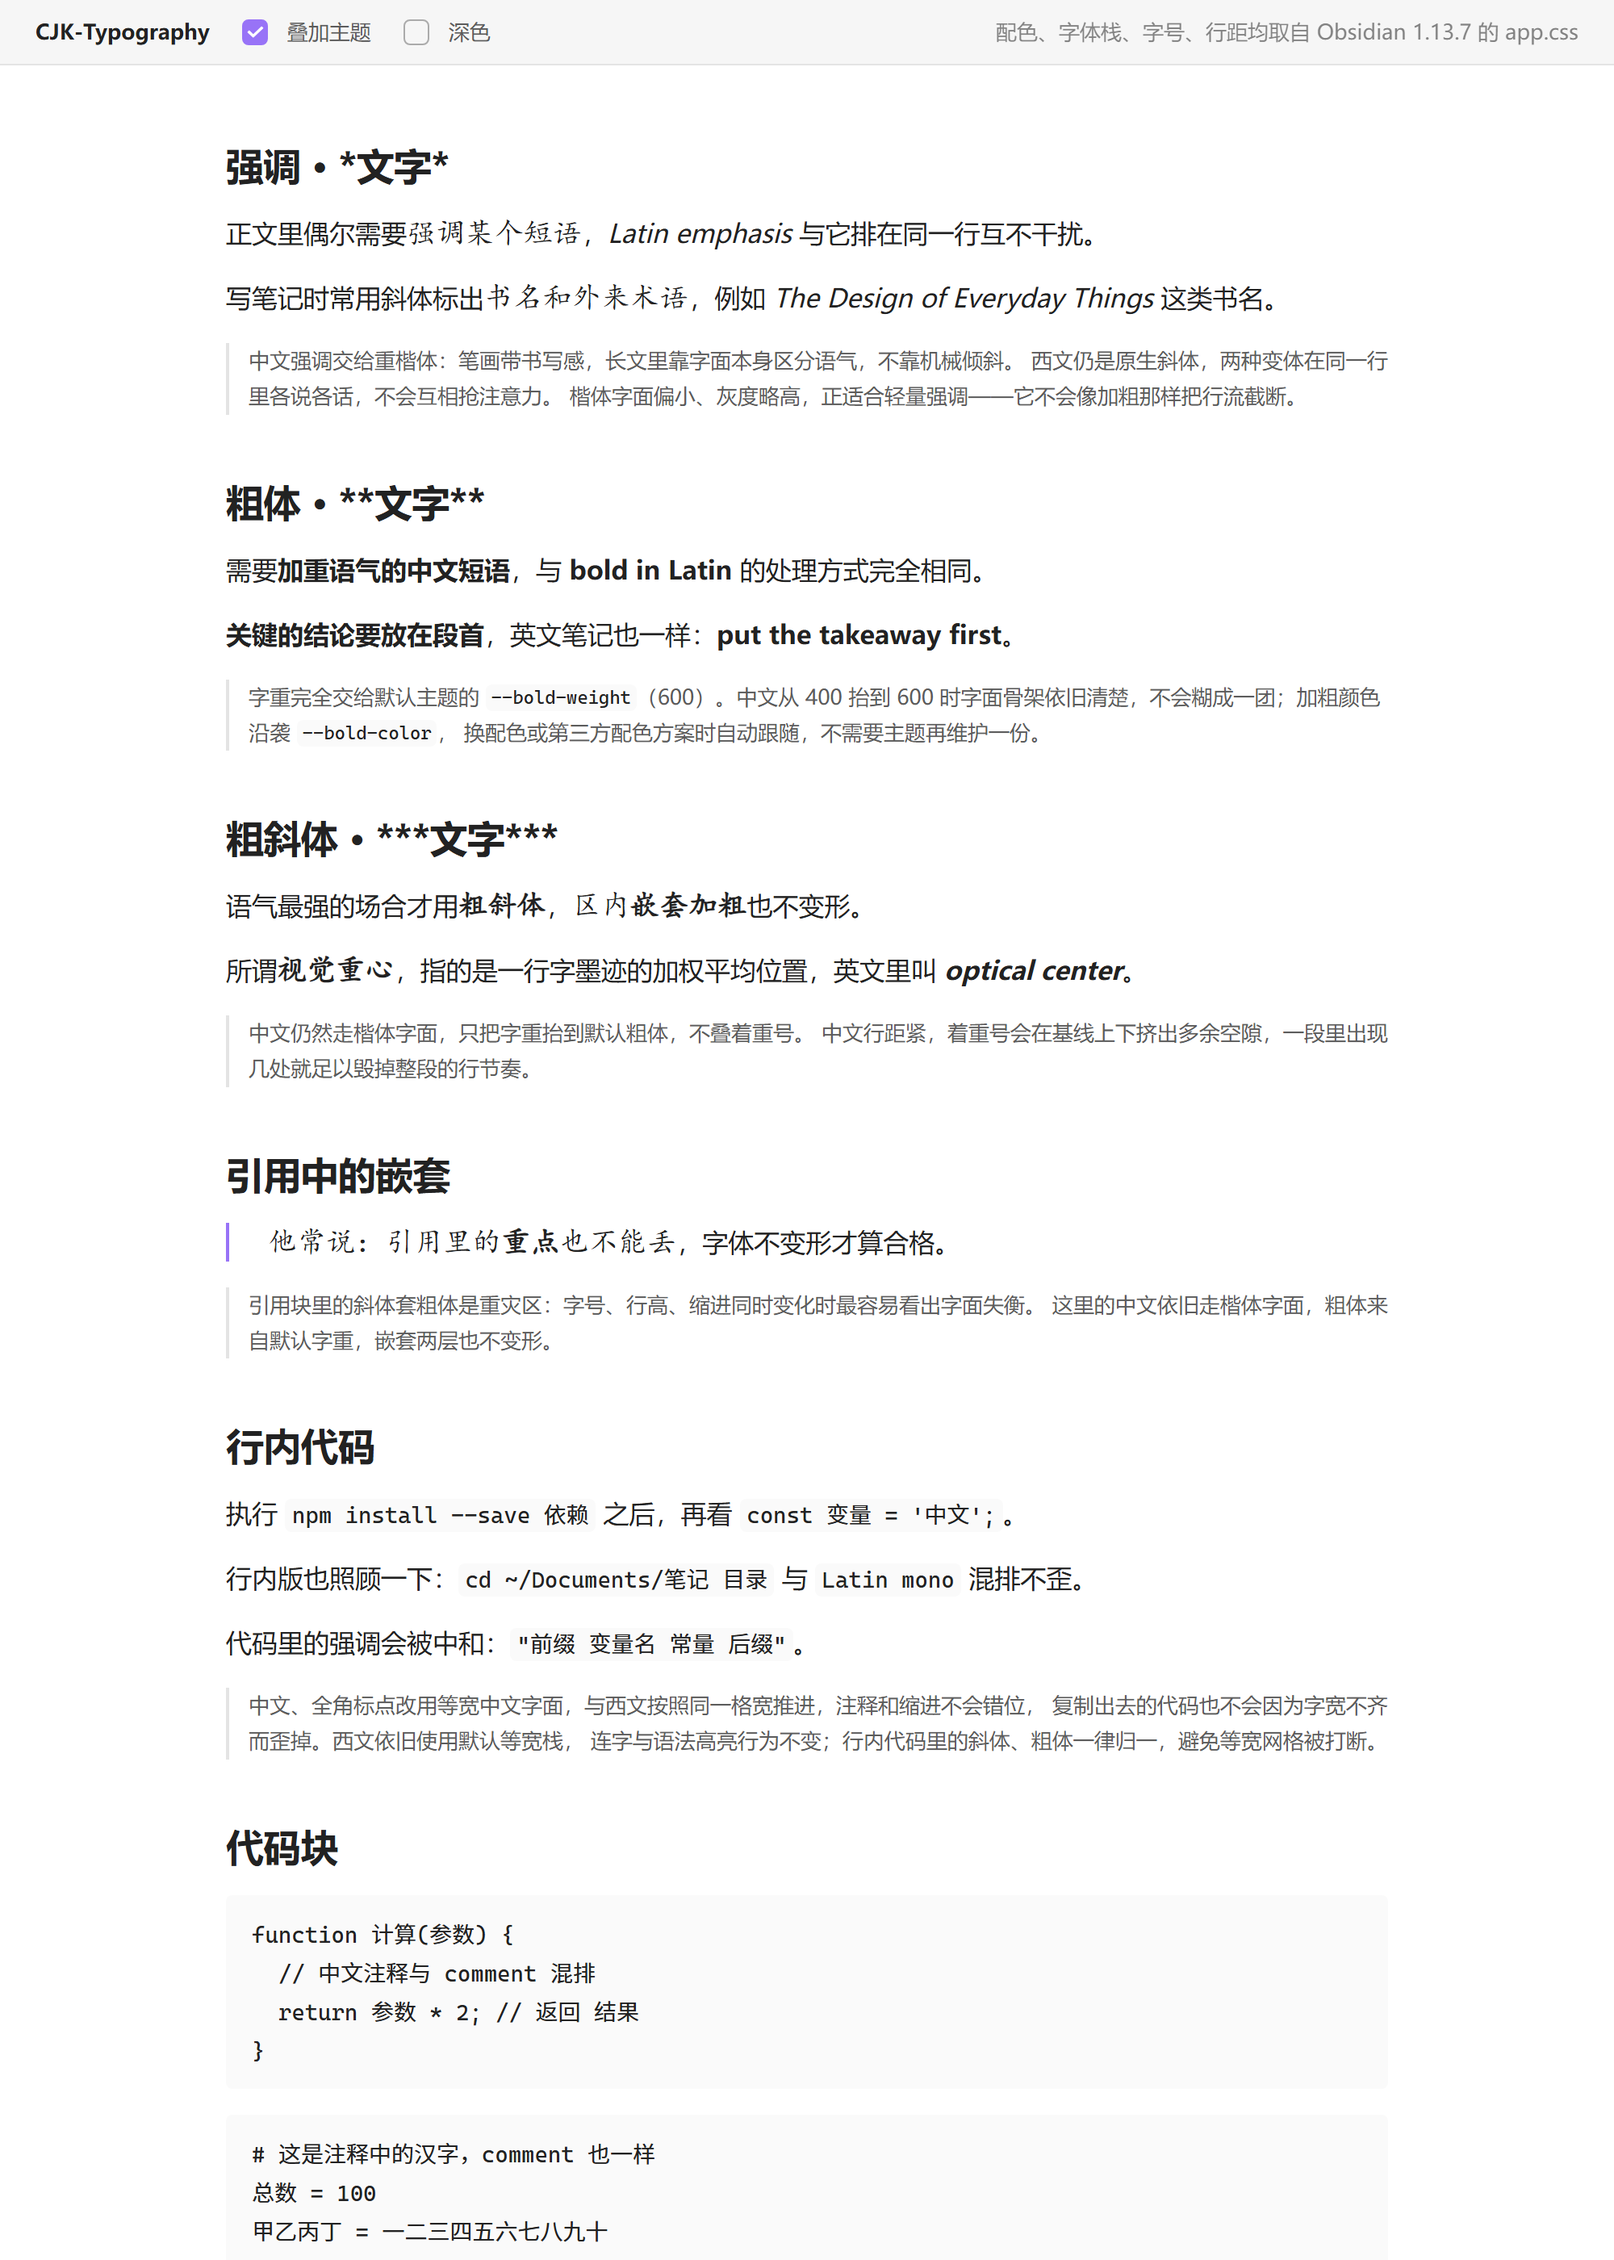
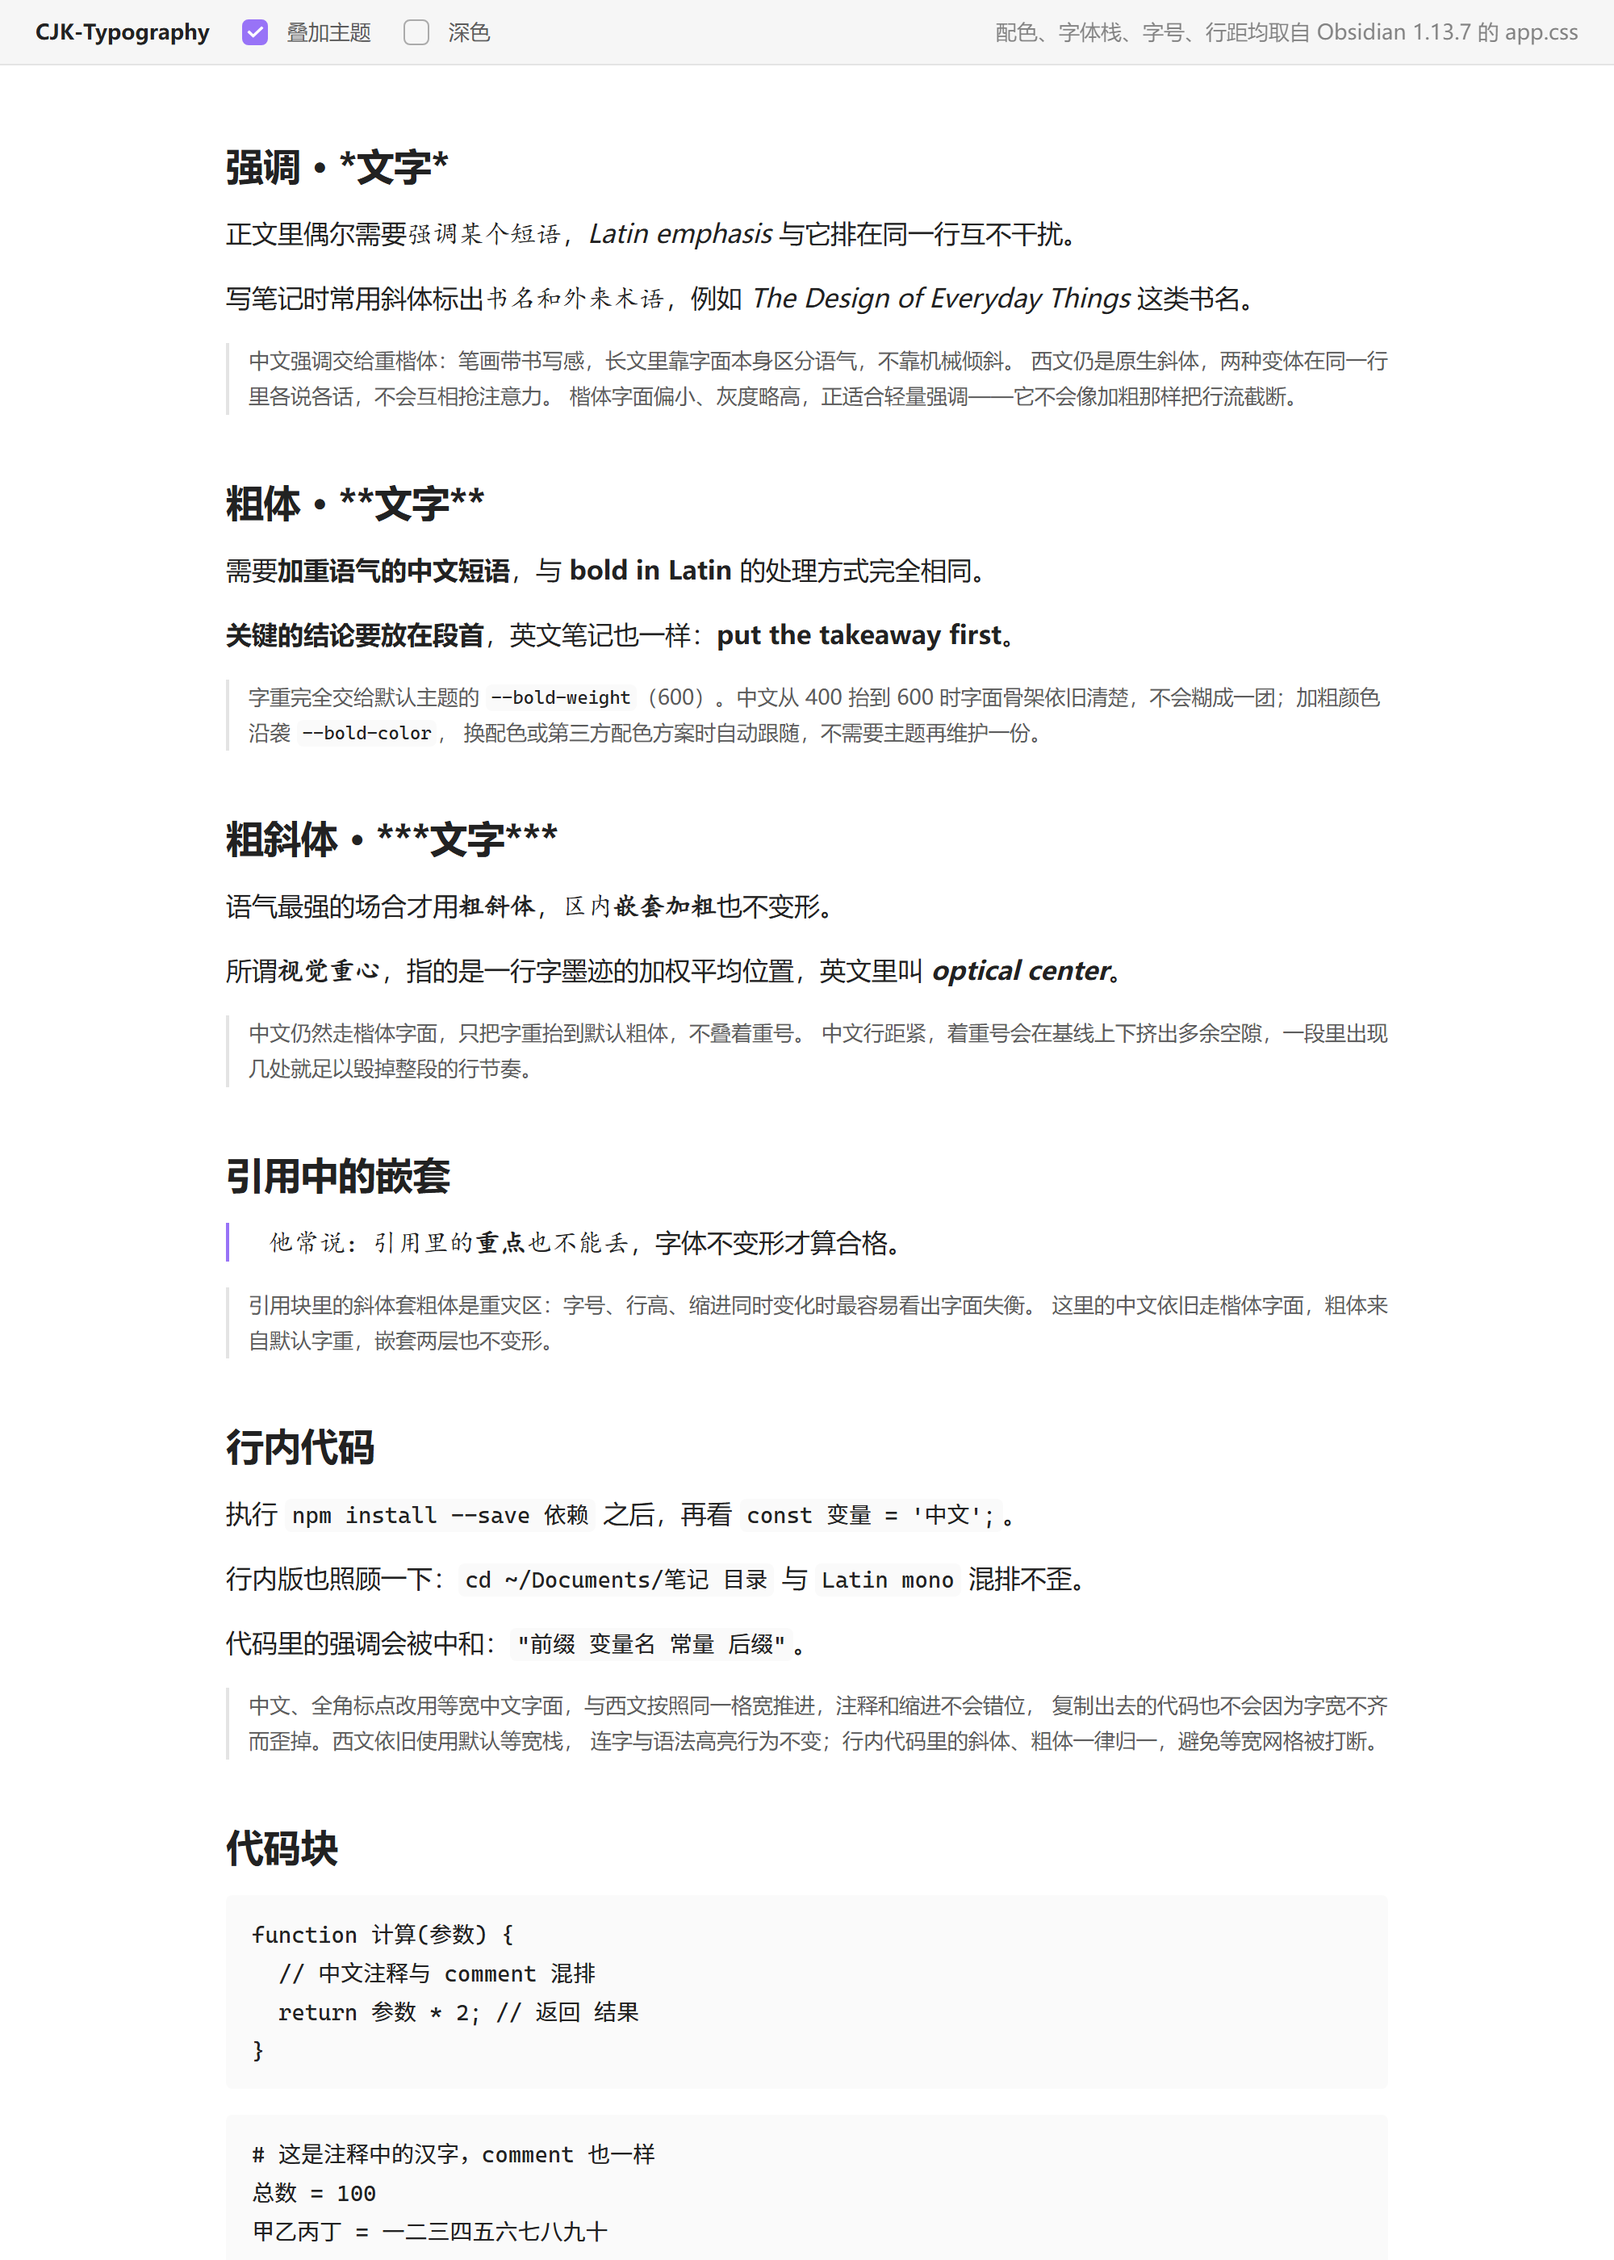
fix: 撤销 size-adjust，按设计框对齐而非墨迹边界
「囗」(U+56D7) 探针实测：楷体与雅黑的设计框本就一致（框高
66 vs 64、宽均为整 em、框中心差 1px）。楷体墨迹覆盖率低是笔画
风格而非框位错位；墨迹边界对齐会被出框笔画带偏，且 GB 字表
实测显示逐字方差 ±10px@100px，任何全局缩放都是过拟合。

diff --git a/theme.css b/theme.css
@@ -28,10 +28,10 @@
      否则浏览器会拿常规字面做机械倾斜（伪斜体）。 */
   font-style: italic;
   font-weight: 400;
-  /* 楷体字身框内留白大，同字号墨迹比默认字体矮约 12%
-     （实测 100px 下楷体墨迹 81 vs 雅黑 92）。size-adjust 只放大经此
-     面渲染的中文字形，不影响西文、font-size 与行框。 */
-  size-adjust: 113%;
+  /* 不做 size-adjust：用「囗」(U+56D7) 探针实测，楷体与雅黑的设计框
+     本来就一致（框高 66 vs 64、宽均为整 em、框中心差 1px）。
+     楷体墨迹覆盖率低是笔画风格，不是框位错位；墨迹边界对齐会被
+     出框笔画（长撇、点尾）带偏，已弃用。 */
 }
 
 em,

diff --git a/cjk-typography.css b/cjk-typography.css
@@ -13,8 +13,8 @@
   unicode-range: U+2E80-9FFF, U+F900-FAFF, U+FE30-FE4F, U+FF00-FFEF;
   font-style: italic;
   font-weight: 400;
-  /* 楷体同字号墨迹比默认字体矮约 12%，size-adjust 只放大中文字形 */
-  size-adjust: 113%;
+  /* 不做 size-adjust：楷体与雅黑的设计框实测一致（囗探针），
+     墨迹差异属笔画风格；边界对齐会被出框笔画带偏 */
 }
 
 em,

diff --git a/README.md b/README.md
@@ -86,7 +86,7 @@ Obsidian 的默认粗体规则在版本之间变过：
 
 曾经把文楷系列（LXGW WenKai Screen、霞鹜臻楷等）排在链首，实测发现楷体风格与默认正文的字形对比不够明显，反而稀释了强调的辨识度，于是砍掉，只留楷体。
 
-楷体与雅黑的墨迹度量逐字差异很大（GB2312 一级字表 3755 字逐字实测，字面总高差 −15～+32、重心差 −10.5～0 @100px），因此主题**不做全局垂直偏移**，`size-adjust: 113%` 只负责把平均字面高度对齐（收敛后平均差约 2%）。
+楷体的墨迹覆盖率天然低于黑体系（100px 下「强」字墨迹高 81 vs 雅黑 92），且逐字差异很大（GB2312 一级字表 3755 字实测，字面总高差 −15～+32 @100px）。曾试过用 `size-adjust` 放大墨迹去凑齐，但那是**边界对齐**——会被楷体的出框笔画带偏。改用「囗」(U+56D7) 探针实测两字体的**设计框**：框高 66 vs 64、宽度均为整 em、框中心差仅 1px，即设计框本来就对齐，墨迹差异纯属笔画风格。因此不做任何缩放，尊重字体的本来设计。
 
 **代码（`CJK-Code`）**：Sarasa Mono SC → Noto Sans Mono CJK SC → Maple Mono NF CN → Microsoft YaHei Mono → SimHei
 
